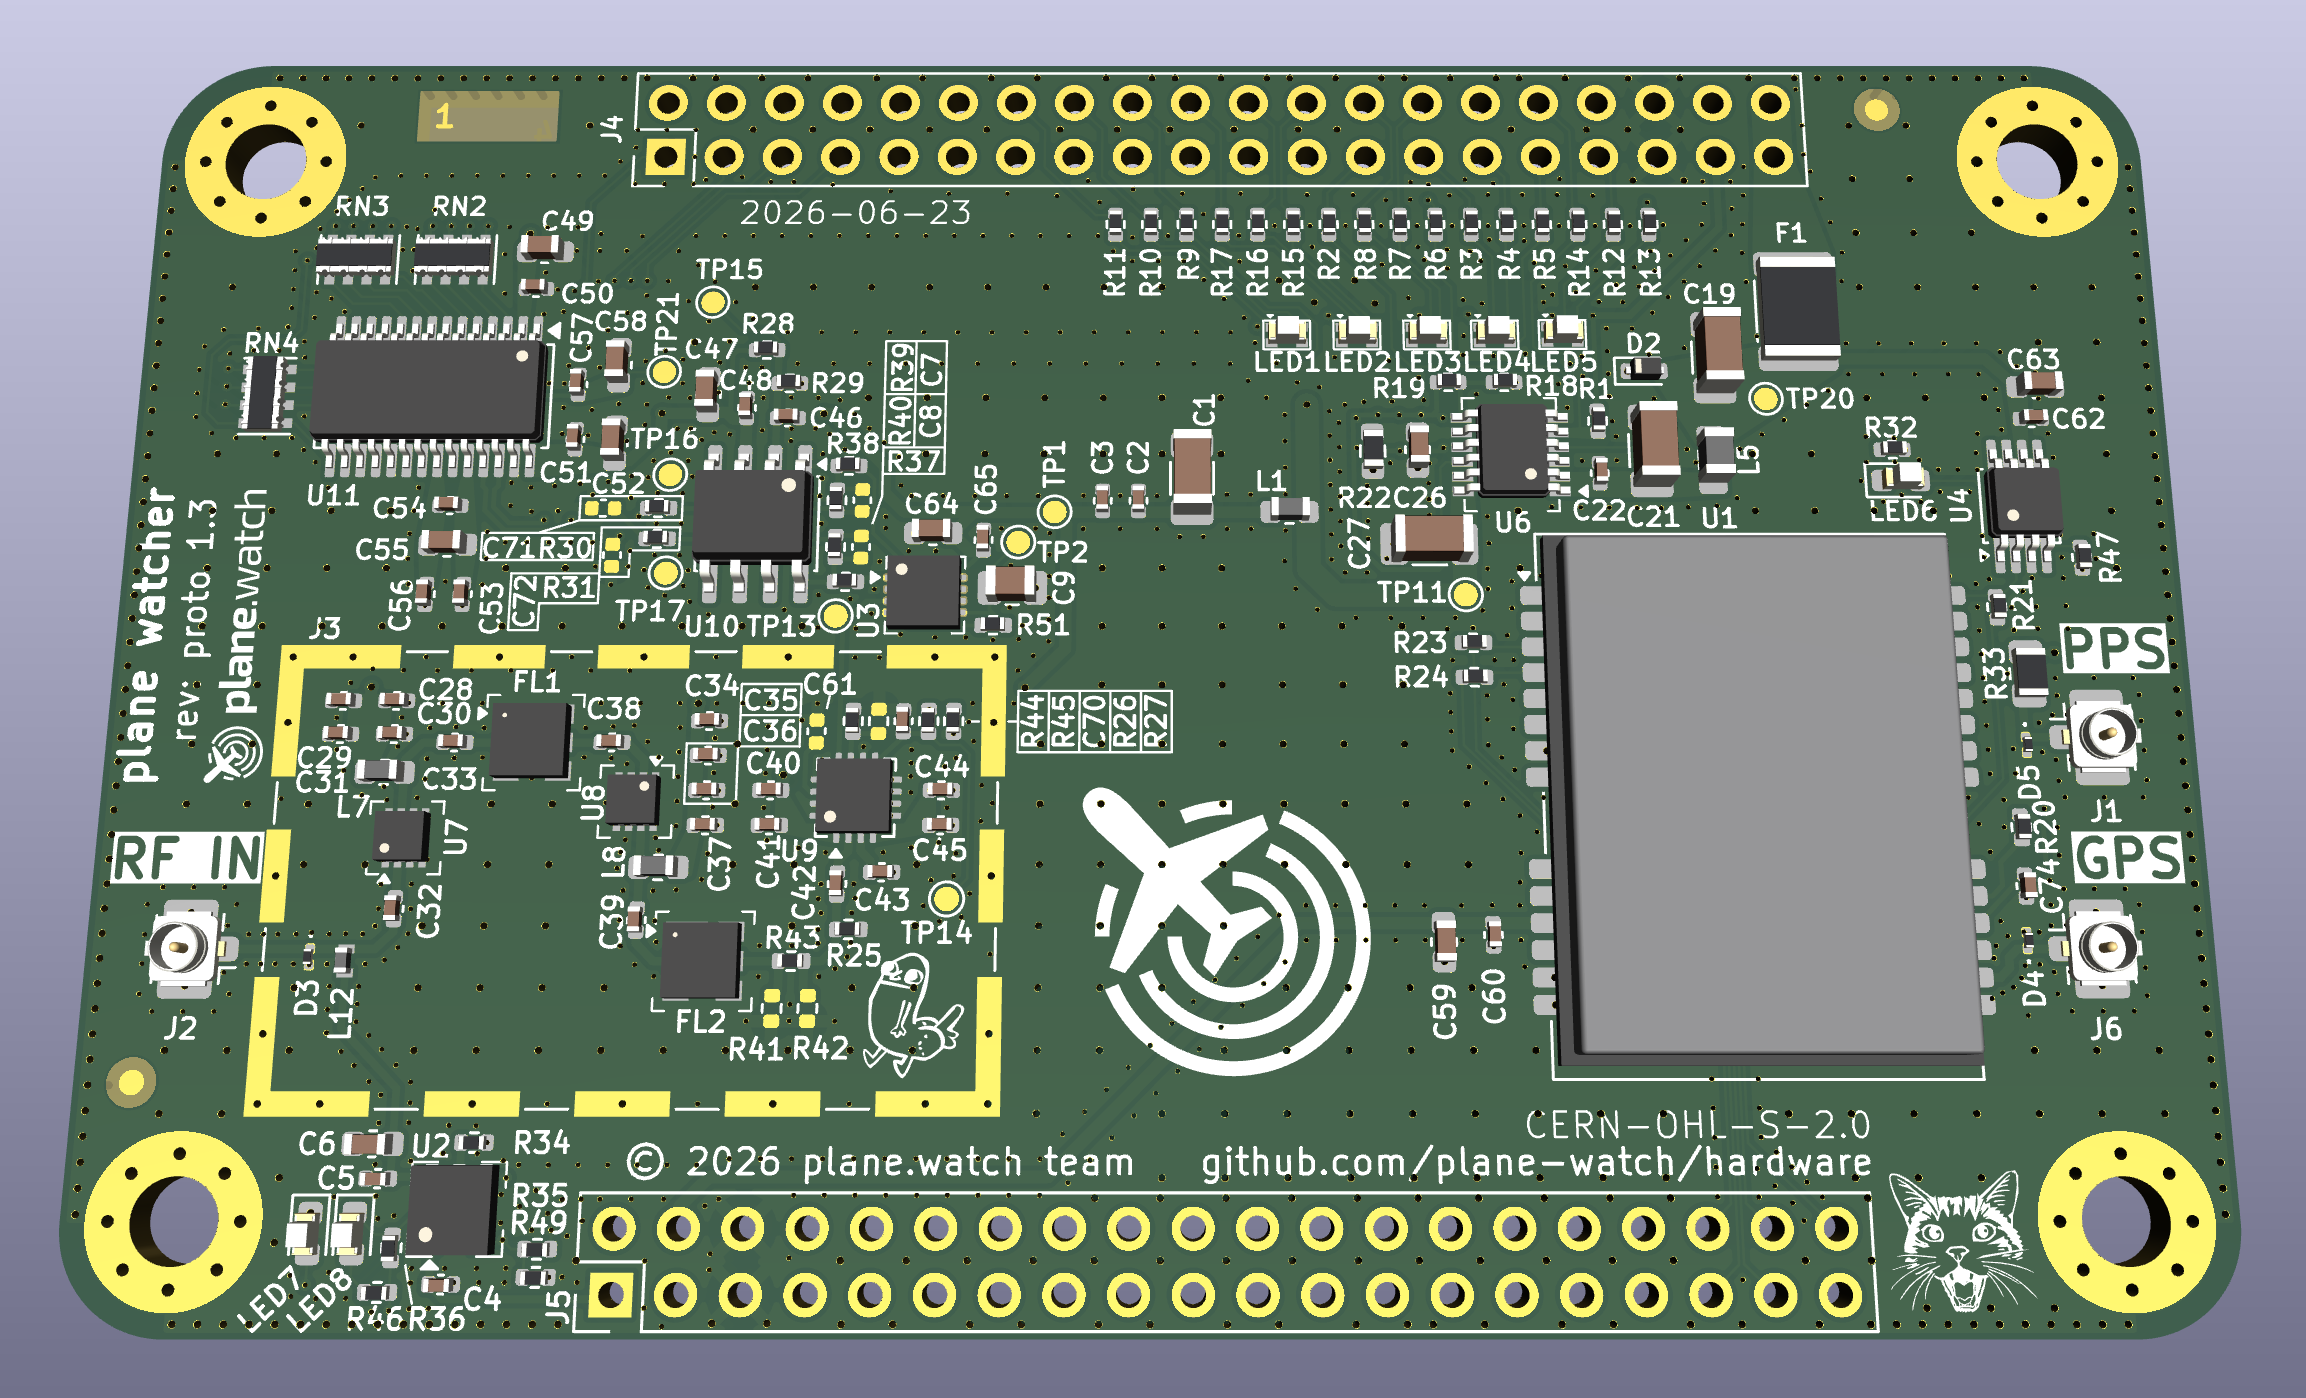
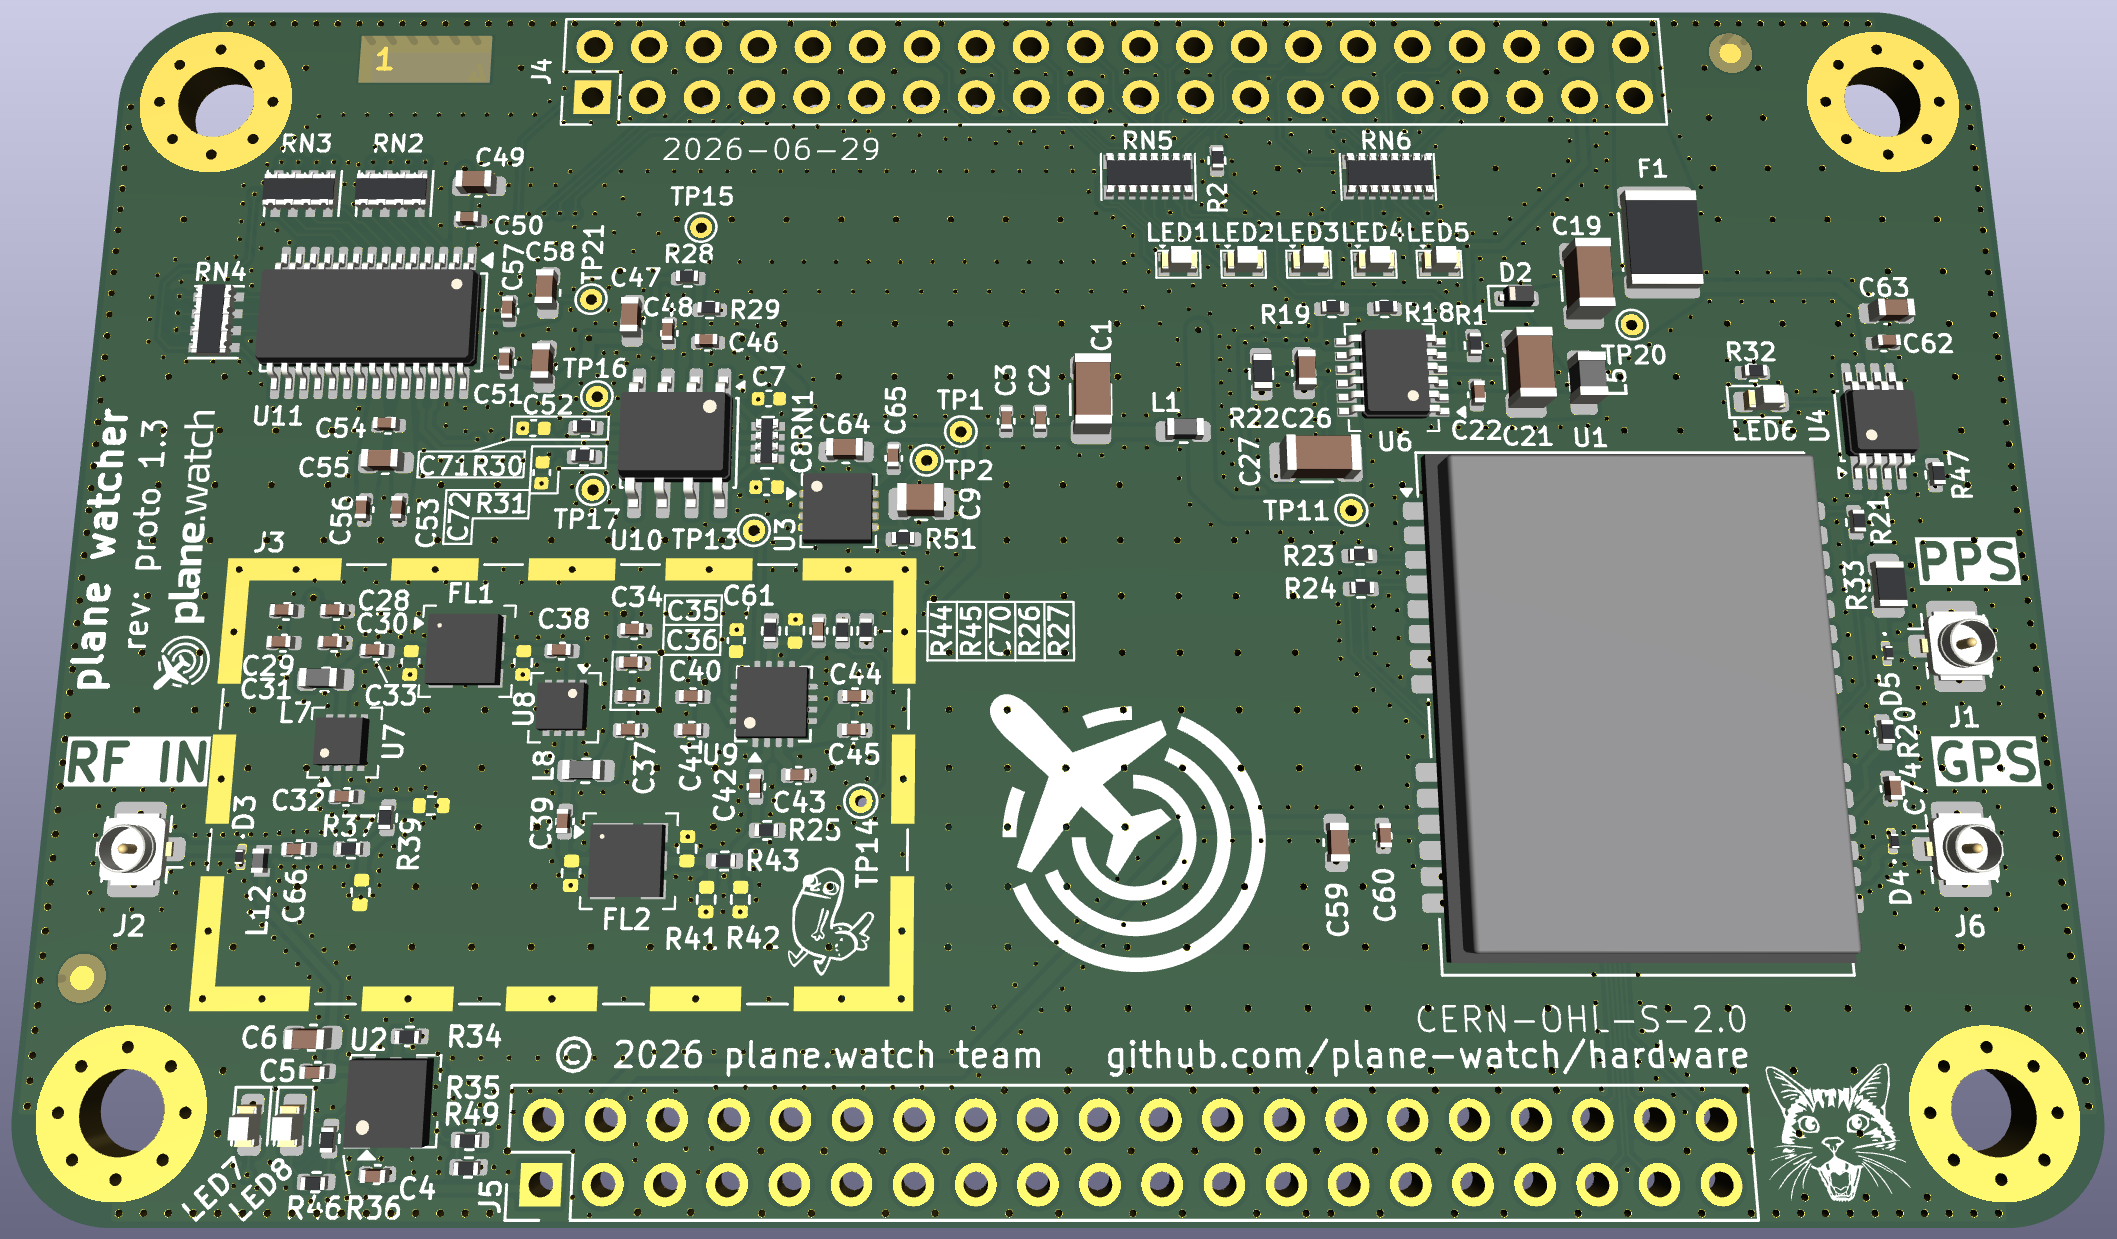
Update readme

diff --git a/README.md b/README.md
@@ -36,8 +36,6 @@ In addition to the above, the next prototype (proto 1.3) has had some functional
 
 ## Design
 
-![Proto 1.3 PCB marked up](assets/planewatcher_proto_1.3_explainer.png)
-
 The design consists of these parts:
 
 ### RF Input